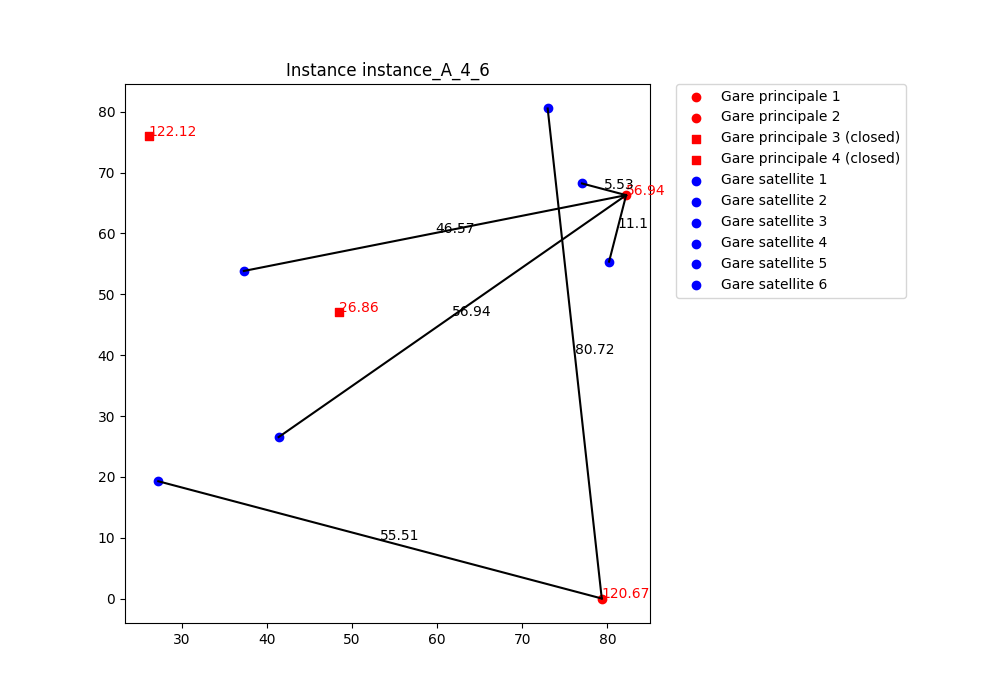
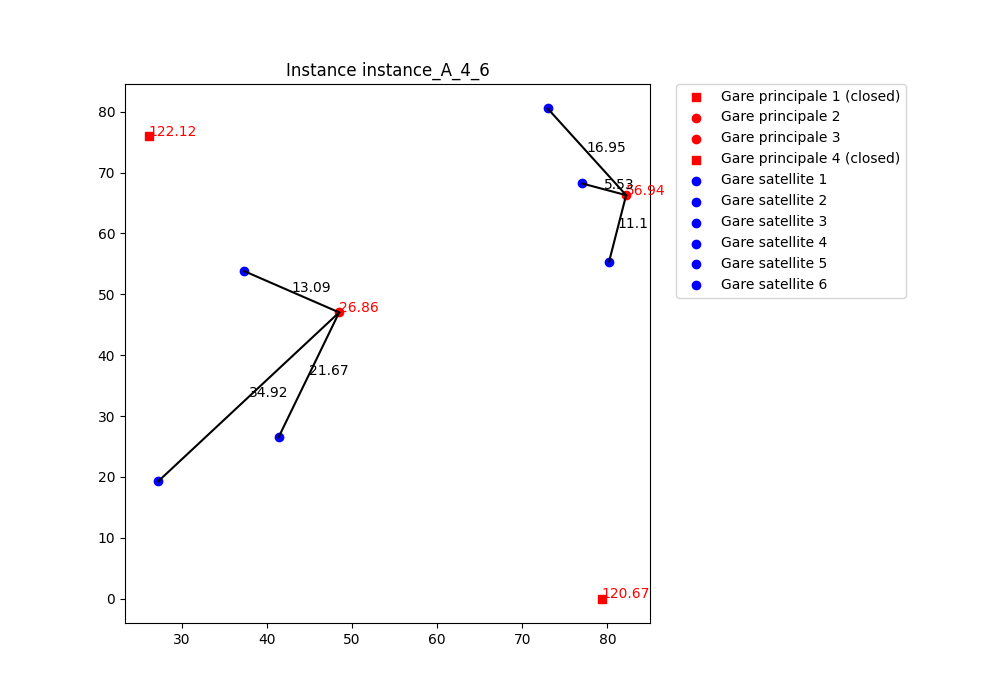
partie 1 fonctionnelle

diff --git a/RechercheLocale/solver.py b/RechercheLocale/solver.py
@@ -1,5 +1,6 @@
 from uflp import UFLP
 from typing import List, Tuple
+import random
 """ 
     Binome 1 : Taylor Jacob (2117518)
     Binome 2 : Bédard-Côté Laurie (2086165)
@@ -19,4 +20,119 @@ def solve(problem: UFLP) -> Tuple[List[int], List[int]]:
         La premiere valeur est une liste représentant les stations principales ouvertes au format [0, 1, 0] qui indique que seule la station 1 est ouverte
         La seconde valeur est une liste représentant les associations des stations satellites au format [1 , 4] qui indique que la premiere station est associée à la station pricipale d'indice 1 et la deuxieme à celle d'indice 4
     """
-    return None, None
+    mainStations = [] # main stations state to return
+    satelliteStations = [] # satellite stations links to return
+
+    initialOpenedStations, initialSatelliteStationAssociation = generateInitialSolution(problem) 
+    mainStations = initialOpenedStations
+    satelliteStations = initialSatelliteStationAssociation
+
+    maxReset = 25
+    resetCounter = 0
+    bestSolutionFound = (mainStations, satelliteStations)
+
+    while resetCounter < maxReset:
+        currentCost = problem.calculate_cost(mainStations, satelliteStations)
+        
+        neighbors = findNeighboringSolutions(problem, mainStations)
+        
+        validNeighbors = validateNeighbors(problem, neighbors, currentCost) # remove neighbors where the cost is higher than the current solution
+        
+        if len(validNeighbors) == 0:
+            resetCounter += 1
+            
+            if (currentCost < problem.calculate_cost(bestSolutionFound[0], bestSolutionFound[1])):
+                bestSolutionFound = (mainStations, satelliteStations)
+            
+            mainStations, satelliteStations = generateRandomSolution(problem)
+            continue
+
+        mainStations, satelliteStations = findBestSolution(problem, validNeighbors) # find the best neighbor
+        
+    return bestSolutionFound
+
+def generateRandomSolution(problem: UFLP) -> Tuple[List[int], List[int]]:
+    # Ouverture aléatoire des stations principales
+    main_stations_opened = [random.choice([0,1]) for _ in range(problem.n_main_station)]
+
+    # Si, par hasard, rien n'est ouvert, on ouvre une station aléatoirement
+    if sum(main_stations_opened) == 0:
+        main_stations_opened[random.choice(range(problem.n_main_station))] = 1
+
+    # Association aléatoire des stations satellites aux stations principales ouvertes
+    indices = [i for i in range(len(main_stations_opened)) if main_stations_opened[i] == 1]
+    satellite_station_association = [random.choice(indices) for _ in range(problem.n_satellite_station)]
+
+    return main_stations_opened, satellite_station_association
+
+def generateInitialSolution(problem: UFLP) -> Tuple[List[int], List[int]]:
+    indexForMinCost = 0
+    main_stations_opened = [0] * problem.n_main_station
+
+    for i in range(problem.n_main_station):
+        if (problem.get_opening_cost(i) < problem.get_opening_cost(indexForMinCost)):
+            indexForMinCost = i
+    
+    main_stations_opened[indexForMinCost] = 1
+    satellite_station_association = [indexForMinCost] * problem.n_satellite_station
+    
+    return main_stations_opened, satellite_station_association
+
+def validateNeighbors(problem: UFLP, neighbors: List[Tuple[List[int], List[int]]], currentCost: float) -> List[Tuple[List[int], List[int]]]:
+    validNeighbors = []
+
+    for mainStations, satelliteStations in neighbors:
+        if problem.calculate_cost(mainStations, satelliteStations) < currentCost:
+            validNeighbors.append((mainStations, satelliteStations))
+    
+    return validNeighbors
+
+def findNeighboringSolutions(problem: UFLP, mainStations: List[int]) -> List[Tuple[List[int], List[int]]]:
+    neighbors = []
+    
+    for i in range(len(mainStations)):
+        # Toggle the station
+        mainStations[i] = 1 - mainStations[i]
+
+        # Add the modified array to neighbors if not all stations are closed
+        if sum(mainStations) > 0:
+            neighbors.append(mainStations.copy())
+
+        # Toggle back to the original state
+        mainStations[i] = 1 - mainStations[i]
+
+    result = []
+
+    for i in range(len(neighbors)):
+        newSatelliteStations = []
+        for j in range(problem.n_satellite_station):
+            nearestMainStationDistance = float('inf')  # Initialize with a large value
+            nearestMainStationIndex = -1  # Initialize with an invalid index
+            
+            for k in range(len(neighbors[i])):
+                if neighbors[i][k] == 1:
+                    cost = problem.get_association_cost(k, j)
+                    if cost < nearestMainStationDistance:
+                        nearestMainStationDistance = cost
+                        nearestMainStationIndex = k
+            
+            newSatelliteStations.append(nearestMainStationIndex)
+        
+        result.append((neighbors[i], newSatelliteStations.copy()))
+    
+    return result
+
+def findBestSolution(problem: UFLP, validNeighbors: List[Tuple[List[int], List[int]]]) -> Tuple[List[int], List[int]]:
+    bestCost = float('inf')
+    bestMainStations = []
+    bestSatelliteStations = []
+
+    for mainStations, satelliteStations in validNeighbors:
+        cost = problem.calculate_cost(mainStations, satelliteStations)
+        if cost < bestCost:
+            # print("New best cost : ", cost)
+            bestCost = cost
+            bestMainStations = mainStations
+            bestSatelliteStations = satelliteStations
+
+    return bestMainStations, bestSatelliteStations
